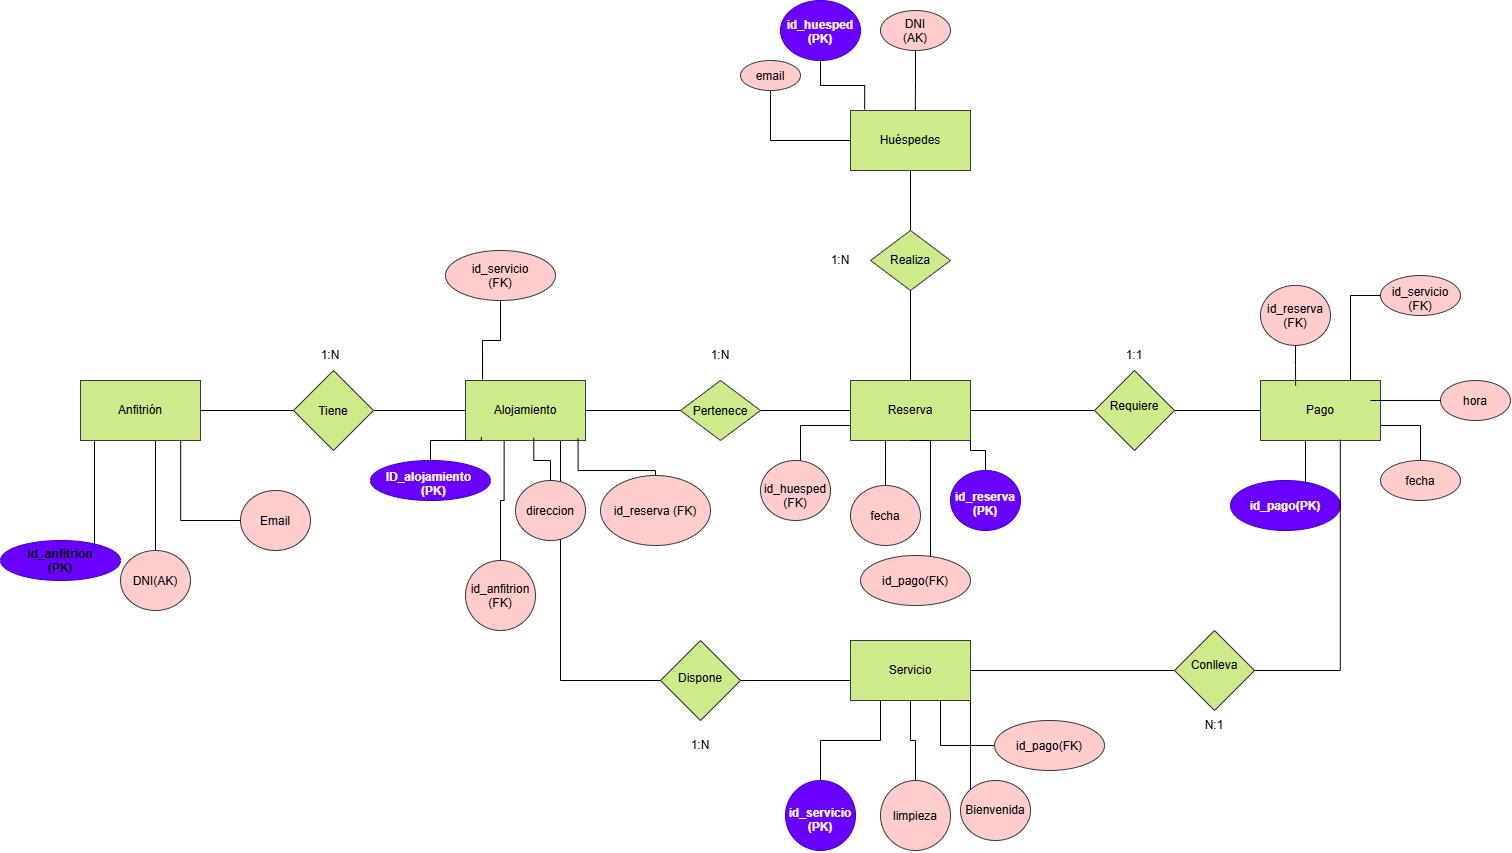
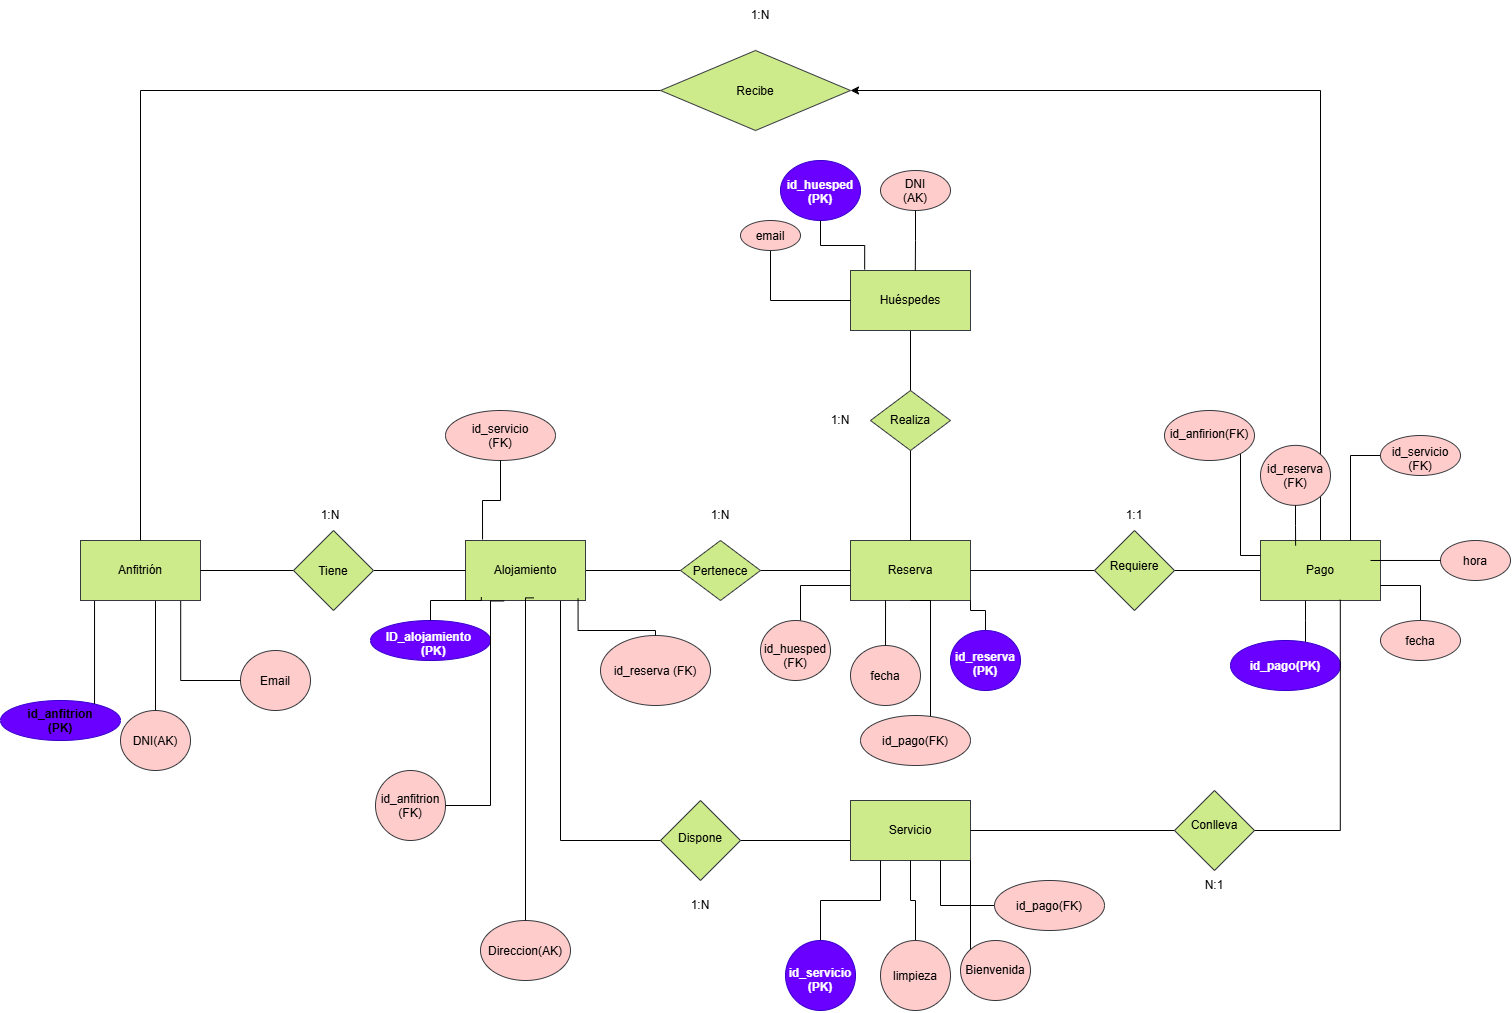
.

diff --git a/PROGRAMACIÓN/Ejercicios/EjerciciosEstrucutrasControl/Ejercicios While y Do-While/Ejercicios While Do-While/src/Ejercicio10.java b/PROGRAMACIÓN/Ejercicios/EjerciciosEstrucutrasControl/Ejercicios While y Do-While/Ejercicios While Do-While/src/Ejercicio10.java
@@ -1,5 +1,13 @@
+import java.util.Scanner;
+
 public class Ejercicio10 {
     public static void main(String[] args) {
-        
+        Scanner lector = new Scanner(System.in);
+        System.out.println("----CAJERO AUTOMATICO----");
+        int saldoInicial = 1000;
+        System.out.println("Saldo inicial : " + saldoInicial);
+        do {
+            
+        }
     }
 }
